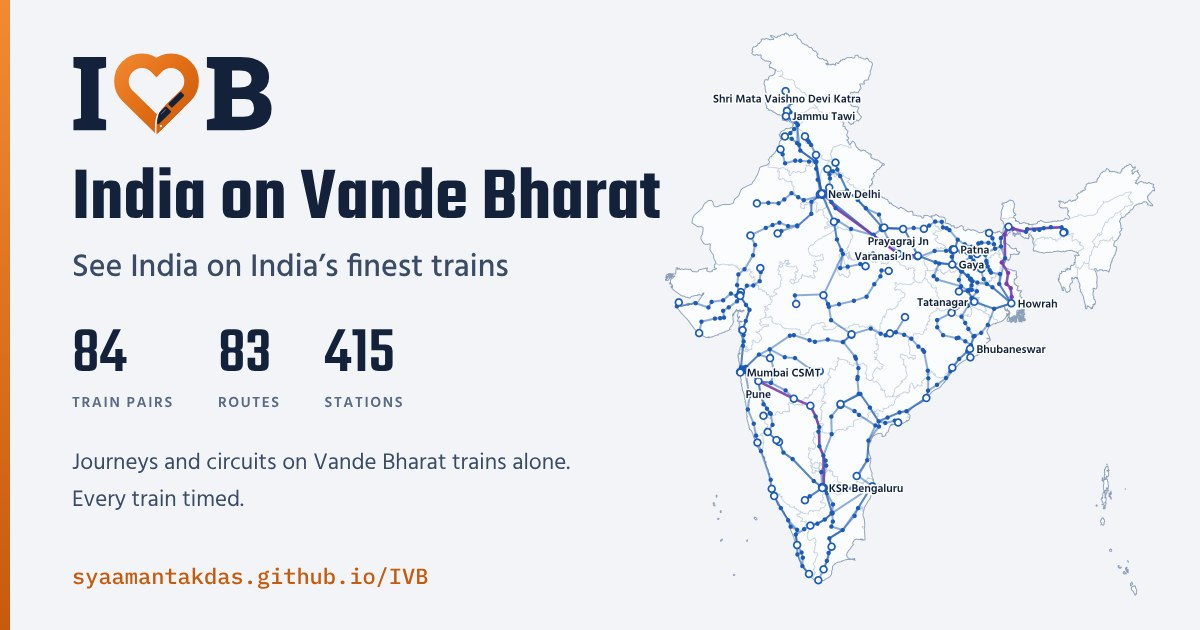
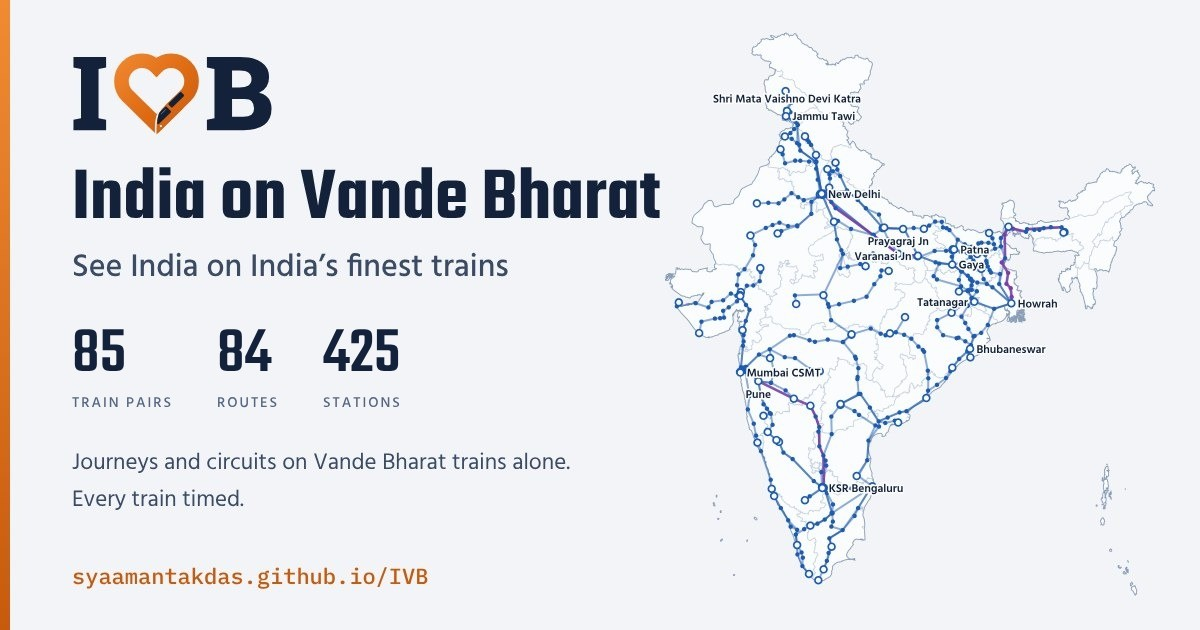
Network counts that keep up with the data, and the search on a short phone's first screen
- tools/counts.mjs writes the network's size wherever it is spelled out by hand: the README, the Google
  Play listing and the share card's description in index.html; with --image it also redraws the numbers
  on the share card, over assets/og-base.jpg (the card with that corner blank). tests/run.js fails when
  any of them falls behind the data, and says what to run. DATA.md adds it to the steps for a change.
- The counts are now 85 train pairs, 84 routes, 170 trains and 425 stations (they said 84, 83, 168 and
  415), and the About text no longer names the network's date (8 November).
- A short phone (an iPhone SE, or any phone with the browser's bars showing) gets a smaller map and
  masthead, so the From box is on the first screen; tests/ui.mjs checks it at 375 x 553.

Claude-Session: https://claude.ai/code/session_01S2zYSmxf631oF3gq8YAyAd

diff --git a/index.html b/index.html
@@ -18,7 +18,7 @@
 <meta property="og:image:type" content="image/jpeg">
 <meta property="og:image:width" content="1200">
 <meta property="og:image:height" content="630">
-<meta property="og:image:alt" content="IVB, India on Vande Bharat: a map of India with every Vande Bharat route, and the network's size: 84 train pairs, 83 routes and 415 stations.">
+<meta property="og:image:alt" content="IVB, India on Vande Bharat: a map of India with every Vande Bharat route, and the network's size: 85 train pairs, 84 routes and 425 stations.">
 <meta name="twitter:card" content="summary_large_image">
 <link rel="icon" href="assets/favicon.svg" type="image/svg+xml">
 <link rel="icon" href="assets/favicon-32.png" sizes="32x32" type="image/png">
@@ -179,7 +179,7 @@
       <footer class="notes">
         <div>
           <h2>About IVB</h2>
-          <p>IVB is an unofficial planner and is not connected with Indian Railways or IRCTC. It covers the Vande Bharat network as it ran on 8 November 2026, including the three Vande Bharat Sleepers. Timetables were last checked on <span id="checked-date">8 November 2026</span> against the sources named on each train, and days off differ between sources for a few trains. Check NTES or IRCTC before you book.</p>
+          <p>IVB is an unofficial planner and is not connected with Indian Railways or IRCTC. It covers every Vande Bharat running, the chair cars and the Sleepers. Timetables were last checked on <span id="checked-date">8 November 2026</span> against the sources named on each train, and days off differ between sources for a few trains. Check NTES or IRCTC before you book.</p>
         </div>
         <div>
           <h2>How it works</h2>

diff --git a/tests/run.js b/tests/run.js
@@ -9,6 +9,7 @@ import { bookingDates, bookingCalendar } from "../lib/booking.js";
 import { decode } from "../lib/polyline.js";
 import { planJourneys, MIN_CHANGE } from "../lib/planner.js";
 import { buildCircuit, ownPlaces, ownFromText, ownToText } from "../lib/own.js";
+import { stale } from "../tools/counts.mjs";
 
 const root = join(dirname(fileURLToPath(import.meta.url)), "..");
 const load = (f) => JSON.parse(readFileSync(join(root, "data", f), "utf8"));
@@ -33,6 +34,9 @@ const ok = (cond, msg) => {
 // ---------- Data ----------
 console.log("Data");
 for (const r of routes) for (const c of r.s) ok(c in stations, `route ${r.n}: unknown station ${c}`);
+// the network's size where it is written out by hand (README, Play listing, share card) matches the data
+for (const { file } of stale())
+  ok(false, `${file} gives old numbers for the network: run node tools/counts.mjs --image`);
 // "since", the day a new service began, is a real date (the app lists services from the last six weeks as new)
 for (const r of routes.filter((x) => "since" in x))
   ok(

diff --git a/assets/app.css b/assets/app.css
@@ -2549,6 +2549,29 @@ select {
     grid-template-columns: 80px minmax(0, 1fr);
   }
 }
+/* a short phone (an iPhone SE, or any phone with the browser's bars showing): a smaller map and masthead,
+   so the search still starts on the first screen */
+@media (max-width: 700px) and (max-height: 720px) {
+  .app {
+    gap: 8px;
+    padding-top: 8px;
+  }
+  .mapstage {
+    max-height: 31vh;
+    max-height: 31svh;
+  }
+  .tally dd {
+    font-size: 22px;
+  }
+  .tally dt {
+    margin-top: 2px;
+  }
+  .legend {
+    padding-block: 6px;
+    gap: 2px 12px;
+    font-size: 11.5px;
+  }
+}
 @media (prefers-reduced-motion: reduce) {
   .route,
   .st,

diff --git a/README.md b/README.md
@@ -19,7 +19,7 @@ IVB plans journeys across India on Vande Bharat trains alone. It is a static web
 - **Dated journeys.** Pick a day to leave and IVB lists the actual trains and dates, soonest arrival first, each leaving as late as it can; it searches every run of every train with RAPTOR, the round-based method journey planners use. Each ride shows when its booking opens.
 - **Circuits.** The Central India Loop, Kashmir to Kerala and back, with or without a two-week swing through the east, or **your own**: pick the places and the nights in each, and IVB finds the Vande Bharats between them and brings you back to the start. Pick a start date and IVB lays the trip out day by day, waiting a night wherever a train has its weekly day off. Every stop says what to see and whether you will be there in a good month.
 - **When to go.** A chart scores every start date by the share of your nights spent in each place's good months, so you can see the best season for the whole loop.
-- **Trains.** All 83 routes and 84 train pairs running on 8 November 2026, including the three Vande Bharat Sleepers, with every halt, on a map of India.
+- **Trains.** All 84 routes and 85 train pairs, including the three Vande Bharat Sleepers, with every halt, on a map of India.
 
 ## Open data: the GTFS feed
 
@@ -27,7 +27,7 @@ IVB publishes its timetables as a [GTFS](https://gtfs.org/) feed, the world stan
 
 **https://syaamantakdas.github.io/IVB/gtfs/ivb-gtfs.zip**
 
-It holds every Vande Bharat service on IVB's network: 83 routes, 168 trains and 415 stations, with every halt, time and running day, and each route's line along the track. One community feed covers all Indian Railways trains ([indianrailways-gtfs](https://github.com/Neo2308/indianrailways-gtfs)), but it states no licence and was last generated in November 2025. IVB's covers Vande Bharat trains only, and it is openly licensed, names the sources of every train and is re-checked every week. It is rebuilt from `data/` on every change by `tools/build-gtfs.mjs` and checked with [MobilityData's GTFS Validator](https://github.com/MobilityData/gtfs-validator); the publish stops if the validator finds an error, and the latest report is at [gtfs/report/report.html](https://syaamantakdas.github.io/IVB/gtfs/report/report.html). The feed is under the ODbL 1.0, like the rest of IVB's data (see below).
+It holds every Vande Bharat service on IVB's network: 84 routes, 170 trains and 425 stations, with every halt, time and running day, and each route's line along the track. One community feed covers all Indian Railways trains ([indianrailways-gtfs](https://github.com/Neo2308/indianrailways-gtfs)), but it states no licence and was last generated in November 2025. IVB's covers Vande Bharat trains only, and it is openly licensed, names the sources of every train and is re-checked every week. It is rebuilt from `data/` on every change by `tools/build-gtfs.mjs` and checked with [MobilityData's GTFS Validator](https://github.com/MobilityData/gtfs-validator); the publish stops if the validator finds an error, and the latest report is at [gtfs/report/report.html](https://syaamantakdas.github.io/IVB/gtfs/report/report.html). The feed is under the ODbL 1.0, like the rest of IVB's data (see below).
 
 To build it yourself: `node tools/build-gtfs.mjs` writes the feed to `gtfs/`.
 

diff --git a/DATA.md b/DATA.md
@@ -94,8 +94,9 @@ The map outline and state lines, simplified from the Survey of India map publish
 2. Update the halts in `routes.json` if they changed, and the times and days in `timetables.json`.
 3. Put the pages you used in `src`, the one the times come from first, and today's date in `checked`.
 4. If you changed a route's halts or a station's position, retrace the track (see below).
-5. Run `node tools/format-data.mjs` to lay the files out as IVB keeps them (one entry per line for stations and routes; elsewhere, a value on one line when it fits in 100 characters).
-6. Run `node tests/run.js`. It checks that halts and times line up, that every train names its sources and the date it was checked, that both circuits still only use trains on days they run, and that each track line starts and ends at its stations.
+5. If the number of routes, trains or stations changed, run `node tools/counts.mjs --image`. It updates the numbers written out in the README, the Google Play listing and the share card's description, and redraws them on the share card (`assets/og-image.jpg`, from `assets/og-base.jpg`).
+6. Run `node tools/format-data.mjs` to lay the files out as IVB keeps them (one entry per line for stations and routes; elsewhere, a value on one line when it fits in 100 characters).
+7. Run `node tests/run.js`. It checks that the numbers in step 5 are current, that halts and times line up, that every train names its sources and the date it was checked, that both circuits still only use trains on days they run, and that each track line starts and ends at its stations.
 
 Timetable sites sometimes show a train as running every day when it has a day off. When sources disagree on days, check the train's Wikipedia page and its return train, and say in `note` which source IVB follows.
 

diff --git a/android/store/listing.md b/android/store/listing.md
@@ -17,7 +17,7 @@ IVB is a free trip planner for seeing India on Vande Bharat trains: see India on
 • Connections: find the way between 29 destinations, among them Delhi, Agra, Varanasi, Jaipur, Mumbai, Goa, Kochi and Kolkata, on Vande Bharat trains alone, with every change of train.
 • Pick a date: see the actual trains, dates and times, each journey leaving as late as it can for its arrival, and the day each ride's booking opens.
 • Circuits: ready-made round trips of six to nine weeks, or your own. Choose the places and the nights in each, and IVB finds the trains and brings you back to where you started, waiting a night wherever a train has its day off.
-• Every Vande Bharat: all 168 trains with their halts, times and days, each with the sources its timetable was checked against.
+• Every Vande Bharat: all 170 trains with their halts, times and days, each with the sources its timetable was checked against.
 • The whole network on a map, drawn along the real track.
 • Works offline once opened. No account, no advertising, no tracking.
 
